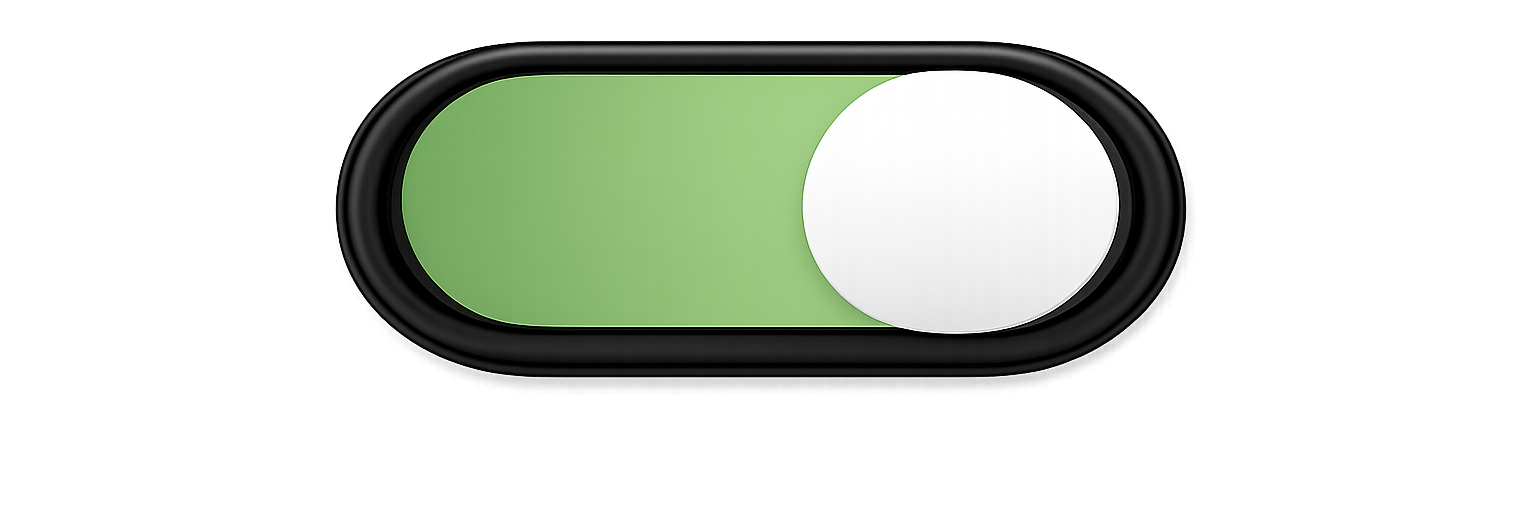
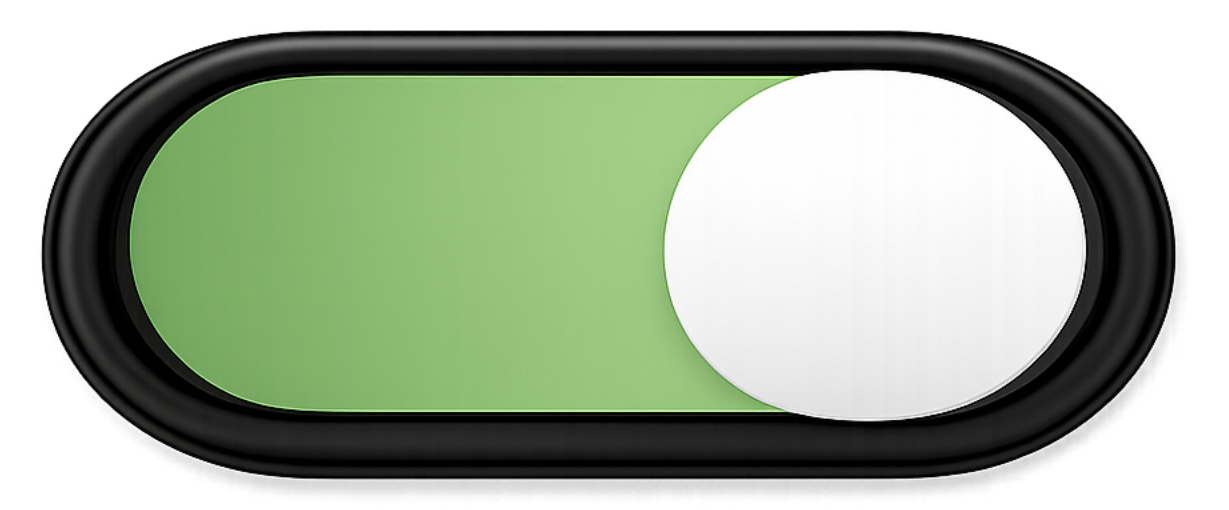
最新版无BUG

diff --git a/SR/SRDlg.cpp b/SR/SRDlg.cpp
@@ -445,9 +445,13 @@ void CSRDlg::LayoutUI()
 	int btnH = 34; 
 	int titleH = 26;
 	int pad = 8;
-	// Only 1 switch now, maybe adjust height or keep similar spacing? 
-	// Let's make it compact but nice. Header + Pad + Switch + Pad
-	int motorH = titleH + pad + btnH + pad; 
+
+	// Custom size for Motor Switch (Larger size 1.5x)
+	int switchBtnW = 84; // 56 * 1.5
+	int switchBtnH = 46; // 34 * 1.35 approx
+
+	// Height adjusted for larger switch
+	int motorH = titleH + pad + switchBtnH + pad;
 	m_rectCardMotor.SetRect(x, y, x + cardW, y + motorH);
 	
 	// Move Motor Switch
@@ -457,12 +461,11 @@ void CSRDlg::LayoutUI()
 		CWnd* p = GetDlgItem(id);
 		if(p) p->ShowWindow(SW_HIDE);
 	}
-	// Position new switch
+	// Position new switch (Right Aligned)
 	if (m_btnMotorSwitch.GetSafeHwnd()) {
-		int switchW = 56;
-		int switchX = m_rectCardMotor.left + (m_rectCardMotor.Width() - switchW) / 2;
+		int switchX = m_rectCardMotor.right - 12 - switchBtnW;
 		int switchY = m_rectCardMotor.top + titleH + pad;
-		m_btnMotorSwitch.SetWindowPos(NULL, switchX, switchY, switchW, btnH, SWP_NOZORDER);
+		m_btnMotorSwitch.SetWindowPos(NULL, switchX, switchY, switchBtnW, switchBtnH, SWP_NOZORDER);
 	}
 
 	// Haptic Card (Height for 3 buttons + header)
@@ -672,8 +675,31 @@ void CSRDlg::OnPaint()
 		}
 
 		// 4. Sidebar Cards (Title + Dark Content)
-		if (!m_rectCardMotor.IsRectEmpty())
+		if (!m_rectCardMotor.IsRectEmpty()) {
 			DrawCardWithTitle(dc, m_rectCardMotor, kRadius, _T("Motor Control"), m_clrSideCardTitle, m_clrSideCardBg, m_clrSideCardBorder, m_clrSidebarText);
+
+			// Draw "Motor Start" Label on Left
+			int nSavedDC = dc.SaveDC(); // Save DC state
+
+			// Re-calculate vertical center based on new switch height (46)
+			// Switch Top = m_rectCardMotor.top + 26 (title) + 8 (pad) = +34
+			// Switch Height = 46. Center = +34 + 23 = +57 from card top
+
+			CRect rcLabel = m_rectCardMotor;
+			rcLabel.top += 34;
+			rcLabel.bottom = rcLabel.top + 46; // Match switch height
+			rcLabel.left += 12; // Left Padding
+			rcLabel.right -= 100; // Avoid switch area (84 width + padding)
+
+			dc.SetBkMode(TRANSPARENT);
+			dc.SetTextColor(m_clrSidebarText);
+			dc.SelectObject(&m_fontSidebarBtn);
+
+			// Use Unicode Hex for "\xb5\xe7\xbb\xfa\xc6\xf4\xb6\xaf" to prevent encoding garble
+			dc.DrawText(L"\x7535\x673A\x542F\x52A8", &rcLabel, DT_LEFT | DT_VCENTER | DT_SINGLELINE);
+
+			dc.RestoreDC(nSavedDC); // Restore DC state
+		}
 		
 		if (!m_rectCardHaptic.IsRectEmpty())
 			DrawCardWithTitle(dc, m_rectCardHaptic, kRadius, _T("Haptic Control"), m_clrSideCardTitle, m_clrSideCardBg, m_clrSideCardBorder, m_clrSidebarText);
@@ -1115,6 +1141,8 @@ void CSRDlg::OnDestroy()
 	if (m_pMotorManager)
 	{
 		m_pMotorManager->DisableMotors();
+		delete m_pMotorManager;
+		m_pMotorManager = nullptr;
 	}
 
 	dhdClose();